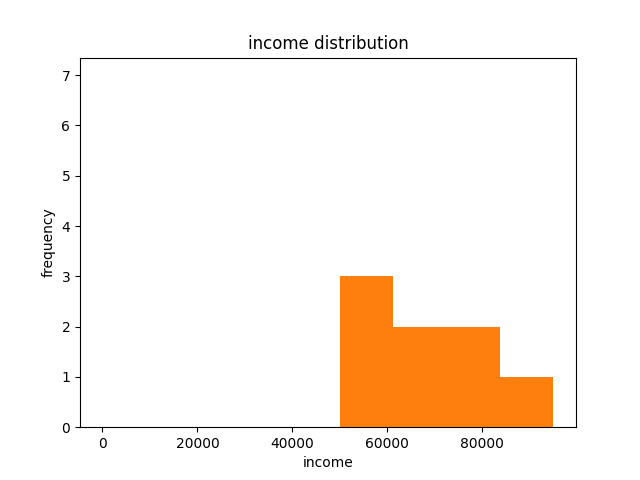
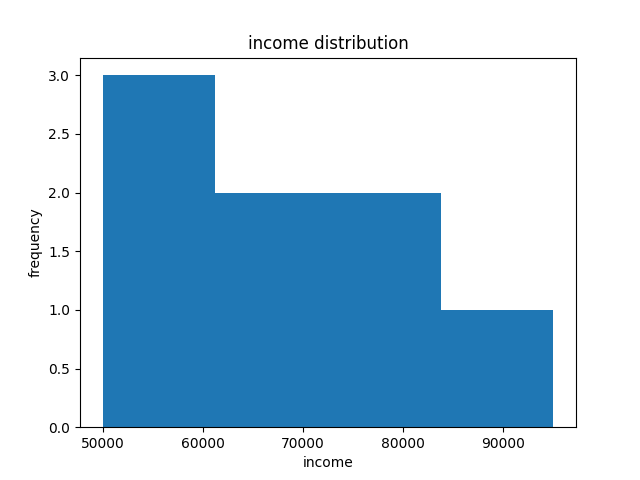
fix: save figure extension and closing

diff --git a/data-analysis-pipeline/data_analysis_pipeline.py b/data-analysis-pipeline/data_analysis_pipeline.py
@@ -42,7 +42,8 @@ def plot_distribution(df):
         plt.title(f"{col} distribution")
         plt.xlabel(col)
         plt.ylabel("frequency")
-        plt.savefig(col)
+        plt.savefig(f"{col}.png")
+        plt.close()
 
 def export_report(summary, df):
     report_lines = []